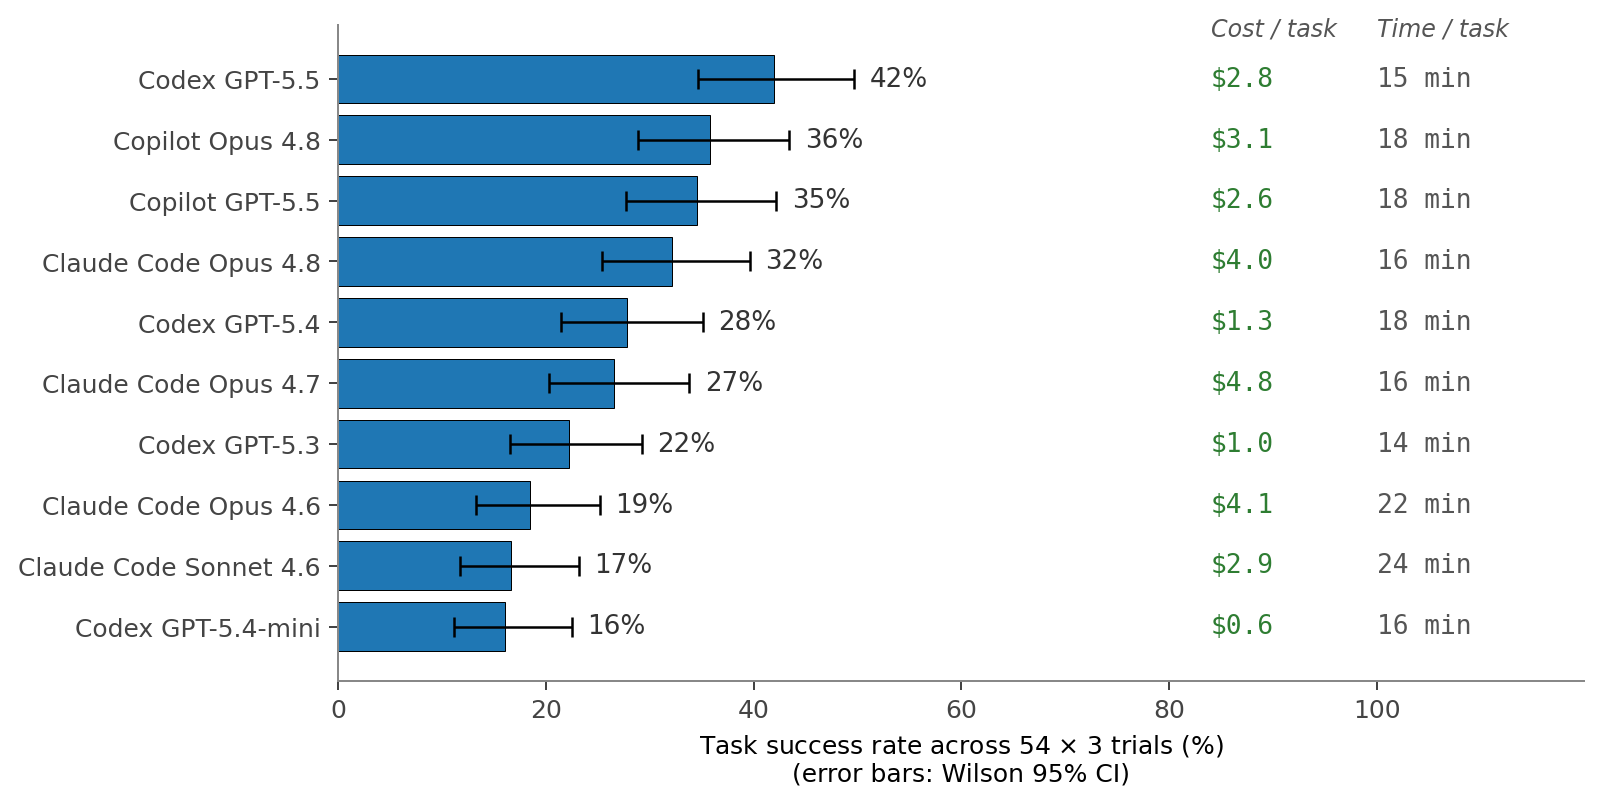
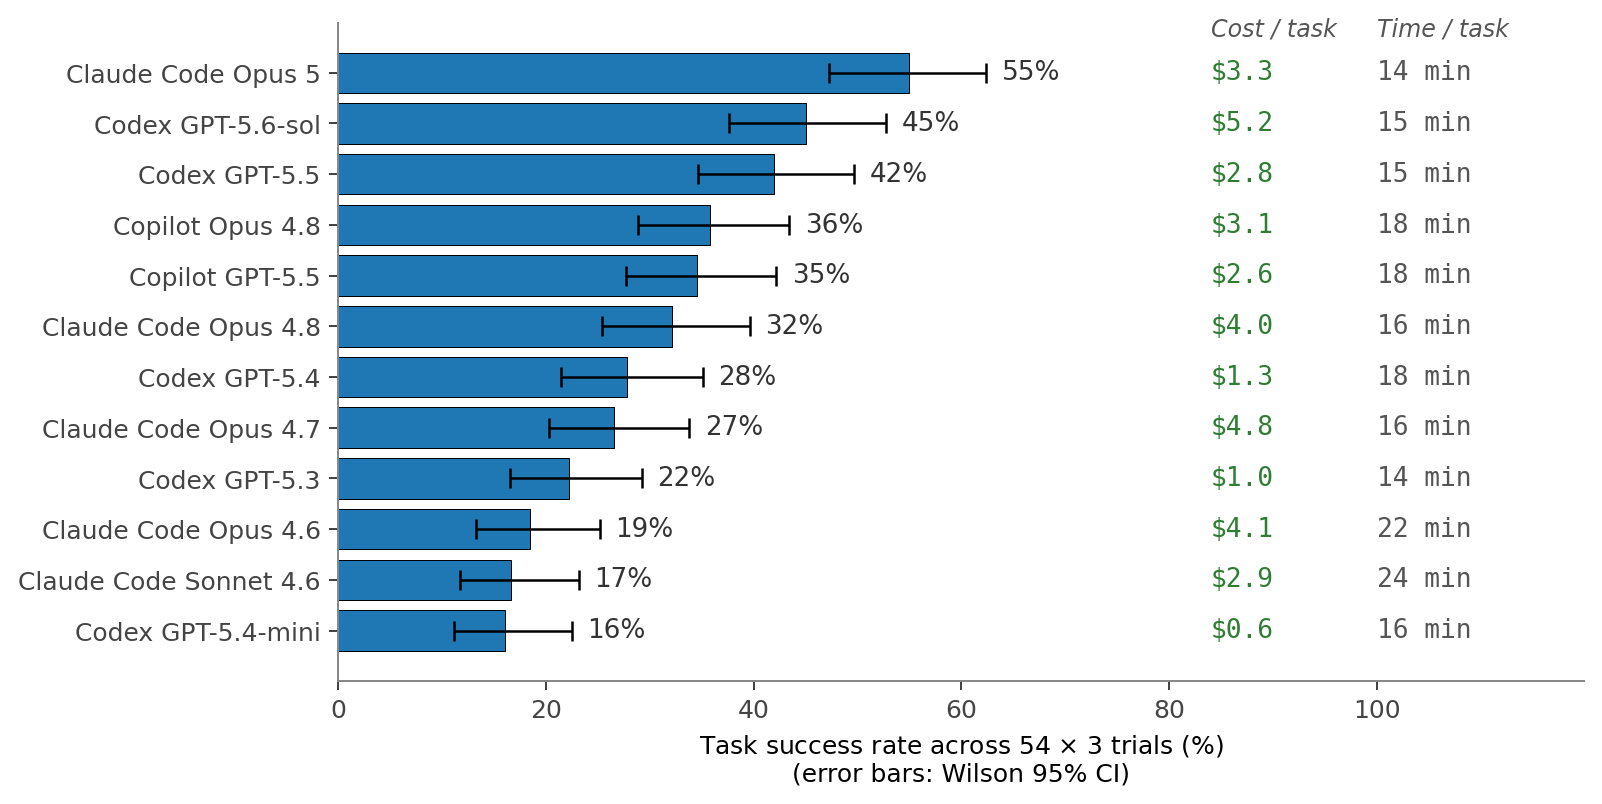
update_opus_5_gptsol_doc

diff --git a/README.md b/README.md
@@ -23,6 +23,7 @@
 </p>
 
 ## 📢 Updates
+* 2026-07-27: We added results from Claude Code Opus-5 and Codex GPT-5.6-sol
 * 2026-07-03: We released the benchmark.
 * 2026-07-01: We released our [paper](https://arxiv.org/abs/2606.31179) and [website](https://microsoft.github.io/HealthAgentBench/).
 
@@ -159,7 +160,7 @@ Harbor will print out a `mean` column that records the success rate and all the 
 Note: 
 1. The harbor runs above will download data and mount the data to `assets/<task_category>/` to speed up multiple task setups using the same data assets. You will need at least 30GB on disk available to download the data assets. 
 2. This repo does not host labels, but the harbor runs above will fetch gold labels which will appear under `tasks/<task_name>/tests` after the run.
-3. We suggest disallowing web browsing / web fetching when running this benchmark, so the agent can't cheat by searching for gold labels online. Refer to Harbor documentation for how to disable web browsing tools for each agent (you might need to use special cli flags).
+3. We suggest disallowing web browsing / web fetching when running this benchmark, so the agent can't cheat by searching for gold labels online. Harbor's built-in Codex agent has no web-search toggle, so you need to create a thin wrapper that subclasses it and adds a CliFlag mapping a kwarg (eg. disable_web_search) to Codex's -c web_search="disabled" config override (see the [Codex config reference](https://developers.openai.com/codex/config-reference) and the [Harbor agents docs](https://deepwiki.com/harbor-framework/harbor/4-agents)).
 4. Check the exception errors (if any) reported by Harbor. We treat agenttimeout trials as failures (reward=0) when reporting the overall success rate.
 
 
